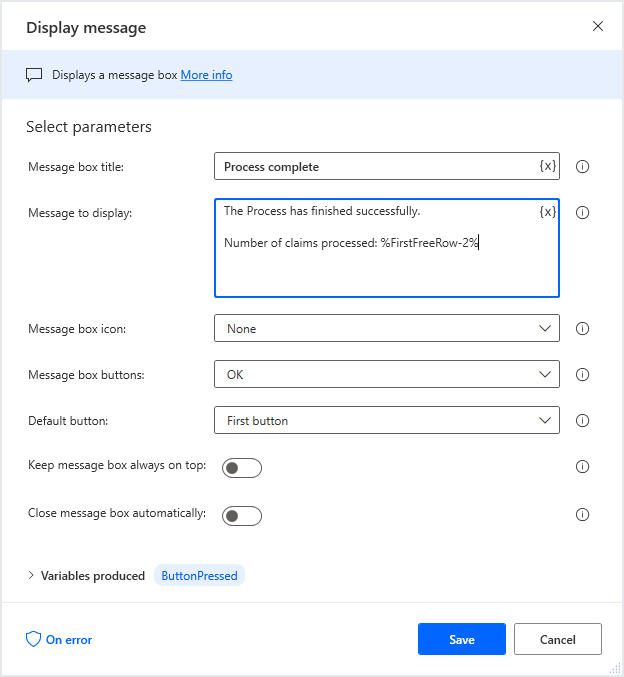
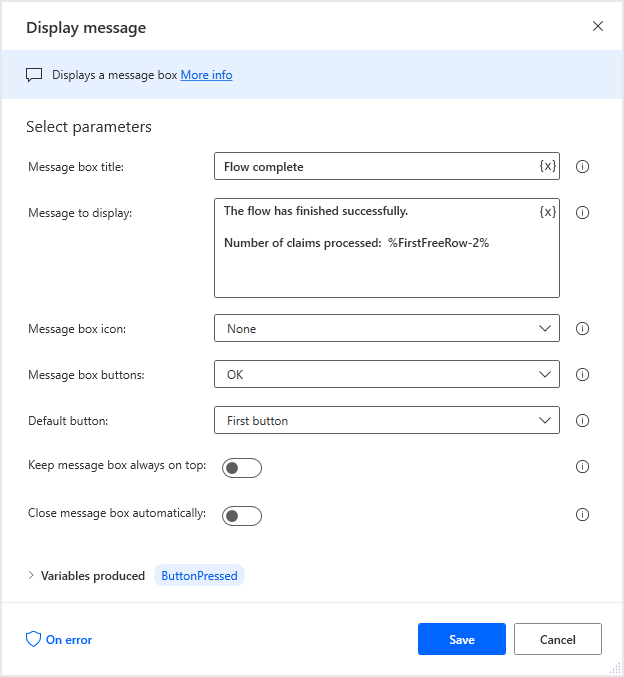
Fixed text and screenshots

Changed region(s): [[0.3349, 0.2171, 0.7917, 0.4343], [0.883, 0.3102, 0.9135, 0.4343]]

diff --git a/learn-bizapps-pr/flow/pad-message-boxes/includes/2-message-boxes.md b/learn-bizapps-pr/flow/pad-message-boxes/includes/2-message-boxes.md
@@ -14,7 +14,7 @@ Based on the data size and the time it takes to process each entry, this flow ma
 
 ![Screenshot of the display message action in workspace.](..\media\display-message-action-in-workspace.png)
 
-Let’s examine how this action will affect what the user sees. When the process is complete, the user is notified:
+Let’s examine how this action will affect what the user sees. When the flow is complete, the user is notified:
 
 ![Screenshot of the message box showing the number of claims processed as 4765.](..\media\message-box.png)
 

diff --git a/learn-bizapps-pr/flow/pad-message-boxes/includes/1-introduction.md b/learn-bizapps-pr/flow/pad-message-boxes/includes/1-introduction.md
@@ -14,4 +14,4 @@ In this module, you will:
 
 ## Prerequisites
 
-* Basic familiarity with the Power Automate Desktop process designer
+* Basic familiarity with the Power Automate Desktop flow designer
